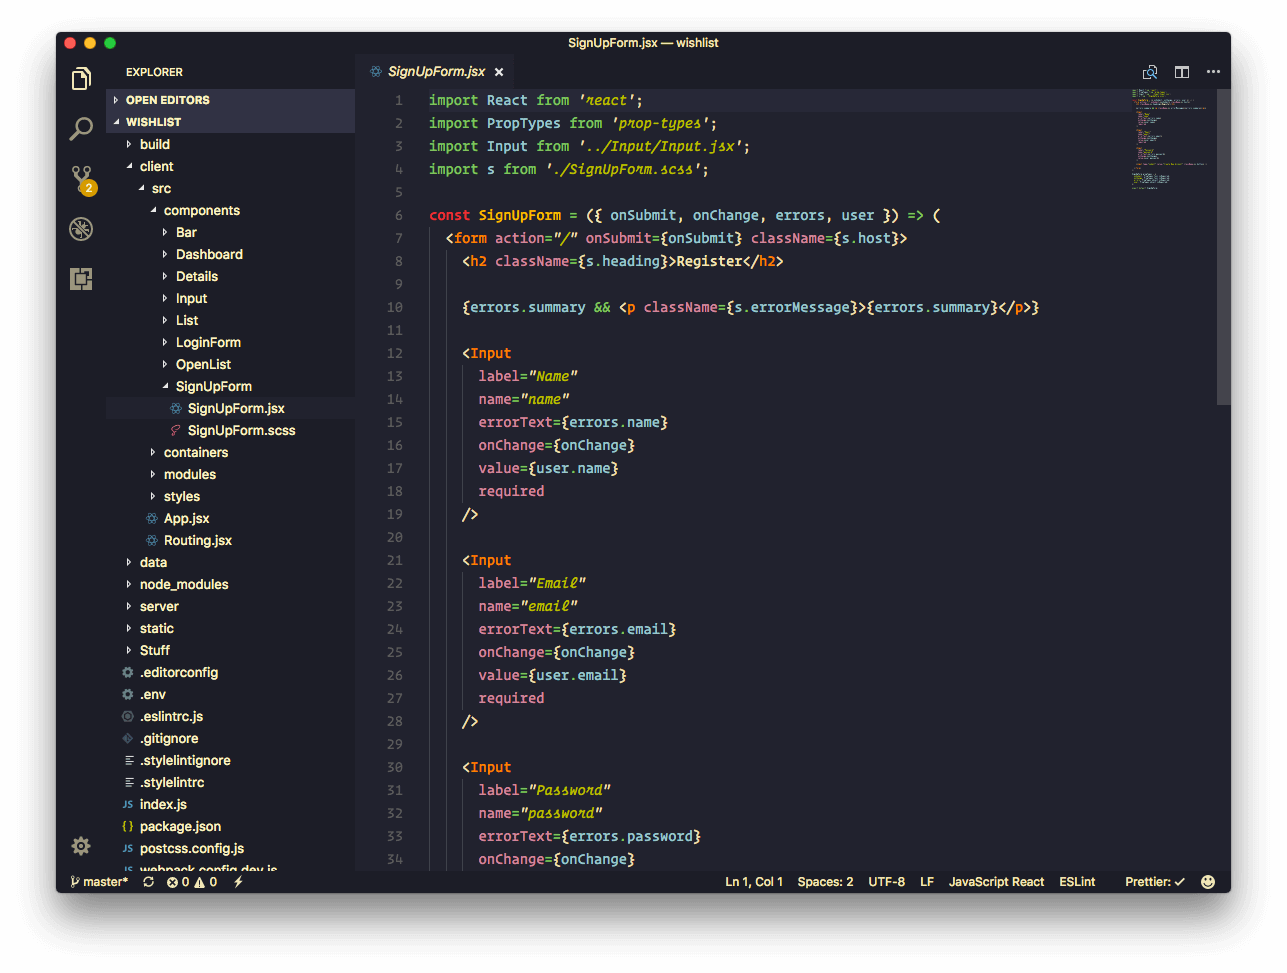
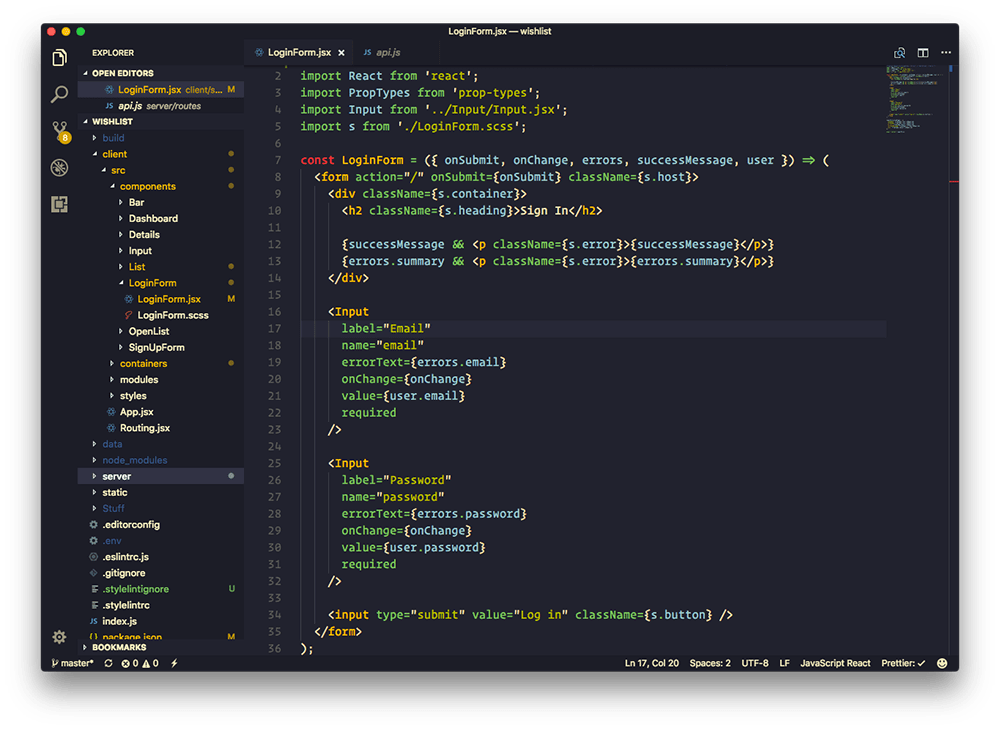
New screenshots.

diff --git a/README.md b/README.md
@@ -39,7 +39,11 @@ CSS, JS and more).
 
 ![json](images/json.png)
 
-## Based on
+## If you have any questions or comments.
+
+Please contact me. https://github.com/hedinne/popping-and-locking-vscode
+
+## Orignally based on
 
 * https://github.com/morhetz/gruvbox
 * https://github.com/jdinhlife/vscode-theme-gruvbox

diff --git a/CHANGELOG.md b/CHANGELOG.md
@@ -38,3 +38,7 @@ Major change. Let me know if you liked old version better ;)
 ## 2.0.1
 
 * CSS color fixed brackets fixed.
+
+## 2.0.2
+
+* New screenshots.
